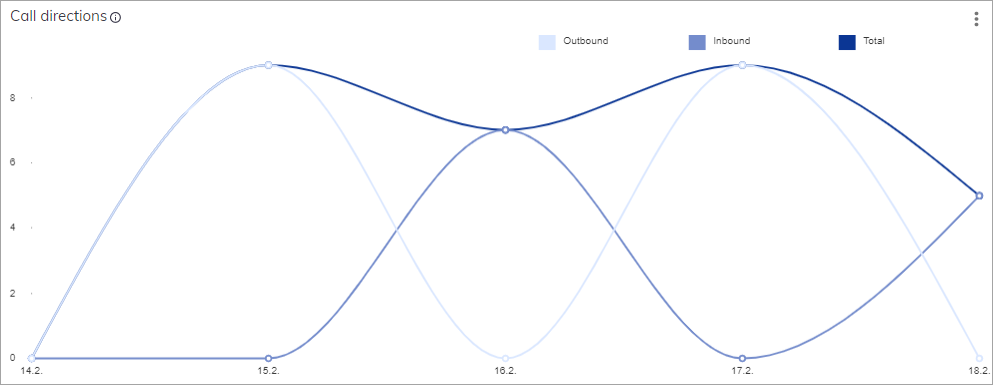
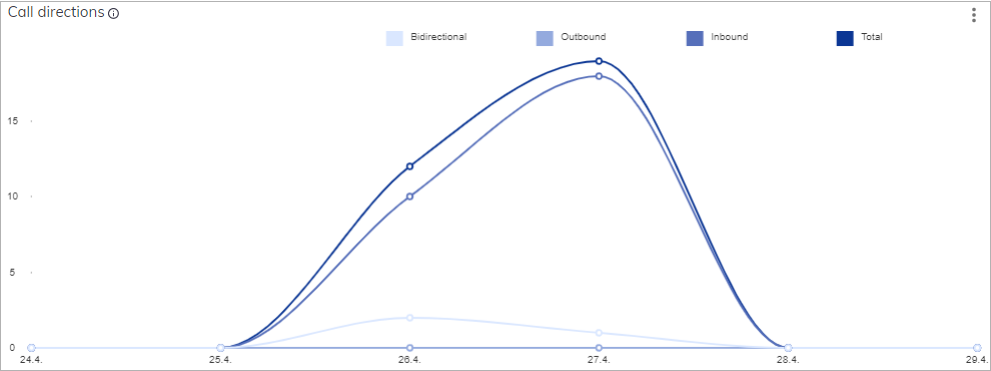
updates

diff --git a/docs/en/docs/insights/dashboard-calls.md b/docs/en/docs/insights/dashboard-calls.md
@@ -127,25 +127,23 @@ A multi-line chart consisting of three lines:
 
 - Inbound — the number of inbound calls on the timescale
 - Outbound — the number of outbound calls on the timescale
-- All — the number of all calls, summing up inbound and outbound, on a timescale.
+- Bidirectional — the number of calls that involve both inbound and outbound calls during a session.
+- Total — the number of all inbound, outbound, and bidirectional calls on a timescale.
 
 Source table:
 
 ```txt
-|   Date    |   Type     | Number of calls |
-| --------- | ---------- | --------------- |
-| 2/15/2023	|  total     |        9        |
-| 2/15/2023	|  inbound   |        0        |
-| 2/15/2023 |  outbound  |        9        |
-| 2/16/2023	|  total     |        7        |
-| 2/16/2023	|  inbound   |        7        |
-| 2/16/2023	|  outbound  |        0        |
-| 2/17/2023 |  total     |        9        |
-| 2/17/2023 |  inbound   |        0        |
-| 2/17/2023 |  outbound  |        9        |
-| 2/23/2023 |  total     |        5        |
-| 2/23/2023 |  inbound   |        5        |
-| 2/23/2023 |  outbound  |        0        |
+|   Date    |   Type       | Number of calls |
+| --------- | ------------ | --------------- |
+| 4/26/2023	| total	       |       12        |
+| 4/26/2023	| inbound      |	   10        |
+| 4/26/2023	| outbound     |	   0         |
+| 4/26/2023	| bidirectional|	   2         |
+| 4/27/2023	| total        |	   19        |
+| 4/27/2023	| inbound      |	   18        |
+| 4/27/2023	| outbound     |	    0        |
+| 4/27/2023	| bidirectional|	    1        |
+
 ```
 
 Result:
@@ -242,5 +240,31 @@ Result:
 ```
 
 <figure>
-  <img class="image-center" src="{{config.site_url}}insights/images/calls/transfered-calls.png" width="100%" />
+  <img class="image-center" src="{{config.site_url}}insights/images/calls/transferred-calls.png" width="100%" />
+</figure>
+
+### Average concurrent session
+
+The average number of active sessions happening at the same time within a specific time frame. Additionally, Insights displays the Concurrent Session Limit on the chart with a red horizontal line that indicates whether the call license limit is exceeded.
+
+Source table:
+
+
+```txt
+| Date      | Total call duration | Time period           |
+|-----------|---------------------|-----------------------|
+| 4/27/2023 | 7.04 minutes        | 1 hour (3600 seconds) |
+```
+
+Calculation: `Total Session Time During a Time Period / Time Period`
+
+Example: 
+
+1. Total call duration = 7.04 minutes x 60 seconds = 422.4 seconds
+2. Average Concurrent Sessions = 422.4 / 3600 = 0.117
+
+Result: `0.117`
+
+<figure>
+  <img class="image-center" src="{{config.site_url}}insights/images/calls/average-concurrent-session.png" width="100%" />
 </figure>
